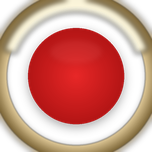
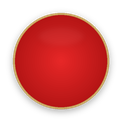
Mockup v10: ranking como texto, número dentro do círculo colorido
- Posição do ranking (1º, 2º...) deixa de ficar dentro de um círculo:
  agora é texto simples "1 -", "2 -"... à esquerda.
- O NÚMERO da roleta (não a posição) é que fica dentro de um círculo,
  na cor real daquele número (vermelho/preto/verde -- mesma lógica de
  cores já usada no histórico e no círculo central), com a contagem
  centralizada à direita como antes.
- Bolinhas do histórico: removida a borda dourada grossa (bisel), agora
  é só uma borda fina dourada logo após o limite da cor -- novo
  make_simple_chip() em build_ui_assets.py, reaproveitado também pro
  selo colorido do número em FRIO/QUENTE (mesmo asset, tamanhos
  diferentes).
- Confirmado: as três raias do histórico continuam com linhas
  totalmente independentes por coluna, sem nenhuma conexão central.

rank_ring_cold.png/rank_ring_hot.png removidos (não usados mais).

diff --git a/tools/build_ui_assets.py b/tools/build_ui_assets.py
@@ -280,6 +280,50 @@ def make_card_gradient_tile(width, height, top, bottom) -> Image.Image:
     return img
 
 
+def make_simple_chip(diameter, fill, gold, shadow_alpha=90) -> Image.Image:
+    """Bolinha simples: sombra sutil -> preenchimento com a cor real (mesmo sombreamento discreto
+    do círculo principal) -> UMA borda fina dourada logo depois do limite da cor (sem bisel
+    grosso, sem halo/glow, sem anel duplo) -- pedido explícito: "não precisam ter a borda dourada
+    grossa, apenas borda fina dourada logo após o limite da cor". Usada tanto pros chips do
+    histórico quanto pro selo colorido de cada número em FRIO/QUENTE (mesmo asset, tamanhos
+    diferentes)."""
+    pad = int(diameter * 0.14)
+    canvas = diameter + pad * 2
+    img = Image.new("RGBA", (canvas * SS, canvas * SS), (0, 0, 0, 0))
+    cx = cy = canvas * SS / 2
+    r = diameter * SS / 2
+
+    shadow = Image.new("RGBA", img.size, (0, 0, 0, 0))
+    ImageDraw.Draw(shadow).ellipse([cx - r, cy - r + SS * 2, cx + r, cy + r + SS * 2],
+                                    fill=(0, 0, 0, shadow_alpha))
+    shadow = shadow.filter(ImageFilter.GaussianBlur(radius=diameter * 0.035 * SS))
+    img.alpha_composite(shadow)
+
+    center_tone = _lerp(fill, (255, 255, 255), 0.06)
+    edge_tone = _lerp(fill, (0, 0, 0), 0.22)
+    fill_img = Image.new("RGBA", img.size, (0, 0, 0, 0))
+    fd = ImageDraw.Draw(fill_img)
+    steps = 22
+    for i in range(steps, 0, -1):
+        t = i / steps
+        rr = r * t
+        color = _lerp(edge_tone, center_tone, 1 - t)
+        fd.ellipse([cx - rr, cy - rr, cx + rr, cy + rr], fill=(*color, 255))
+    img.alpha_composite(fill_img)
+
+    ring_w = max(1, int(SS * 2.2))
+    ImageDraw.Draw(img).ellipse([cx - r, cy - r, cx + r, cy + r], outline=(*gold, 255), width=ring_w)
+
+    hl = Image.new("RGBA", img.size, (0, 0, 0, 0))
+    hl_w, hl_h = r * 1.0, r * 0.42
+    ImageDraw.Draw(hl).ellipse([cx - hl_w / 2, cy - r * 0.72, cx + hl_w / 2, cy - r * 0.72 + hl_h],
+                                fill=(255, 255, 255, 12))
+    hl = hl.filter(ImageFilter.GaussianBlur(radius=diameter * 0.03 * SS))
+    img.alpha_composite(hl)
+
+    return _down(img, (canvas, canvas))
+
+
 def make_background(width, height, base, center_tint) -> Image.Image:
     """Fundo com profundidade sutil: leve iluminação central + vignette discreto nos cantos.
     Pré-renderizado 1x -- em runtime custa um único `blit()` no lugar do `screen.fill()` flat que
@@ -355,9 +399,16 @@ def main() -> None:
     make_result_badge(380, fill=TRUE_BLACK, ring_tone=TRUE_BLACK, accent=GOLD, gold_halo=True, double_ring=True).save(OUT_DIR / "result_badge_black.png")
     make_result_badge(380, fill=GREEN, ring_tone=GREEN, accent=GOLD, gold_halo=True, double_ring=True).save(OUT_DIR / "result_badge_green.png")
 
-    make_result_badge(96, fill=RED, ring_tone=RED, accent=GOLD, gold_halo=True, shadow_alpha=90).save(OUT_DIR / "history_chip_red.png")
-    make_result_badge(96, fill=TRUE_BLACK, ring_tone=TRUE_BLACK, accent=GOLD, gold_halo=True, shadow_alpha=90).save(OUT_DIR / "history_chip_black.png")
-    make_result_badge(96, fill=GREEN, ring_tone=GREEN, accent=GOLD, gold_halo=True, shadow_alpha=90).save(OUT_DIR / "history_chip_green.png")
+    # Bolinhas simples (sem bisel grosso -- só uma borda fina dourada logo depois do limite da
+    # cor). Mesmo asset reaproveitado pros chips do histórico E pro selo colorido do número em
+    # cada linha de FRIO/QUENTE (mesmo estilo visual, tamanhos diferentes).
+    make_simple_chip(96, fill=RED, gold=GOLD).save(OUT_DIR / "history_chip_red.png")
+    make_simple_chip(96, fill=TRUE_BLACK, gold=GOLD).save(OUT_DIR / "history_chip_black.png")
+    make_simple_chip(96, fill=GREEN, gold=GOLD).save(OUT_DIR / "history_chip_green.png")
+
+    make_simple_chip(72, fill=RED, gold=GOLD).save(OUT_DIR / "number_chip_red.png")
+    make_simple_chip(72, fill=TRUE_BLACK, gold=GOLD).save(OUT_DIR / "number_chip_black.png")
+    make_simple_chip(72, fill=GREEN, gold=GOLD).save(OUT_DIR / "number_chip_green.png")
 
     make_accent_bar(420, 6, BLUE_DARK, BLUE_BRIGHT).save(OUT_DIR / "accent_cold.png")
     make_accent_bar(420, 6, RED_DARK, RED_BRIGHT).save(OUT_DIR / "accent_hot.png")
@@ -372,9 +423,6 @@ def main() -> None:
     make_accent_glow(1080, 3, GOLD).save(OUT_DIR / "accent_gold_glow.png")
 
     make_card_gradient_tile(8, 320, (16, 20, 26), (10, 13, 18)).save(OUT_DIR / "card_gradient.png")
-
-    make_rank_ring(38, BLUE).save(OUT_DIR / "rank_ring_cold.png")
-    make_rank_ring(38, RED).save(OUT_DIR / "rank_ring_hot.png")
 
     make_background(1080, 1920, base=(7, 10, 14), center_tint=(16, 20, 27)).save(OUT_DIR / "background.png")
     make_ambient_glow(420, BLUE_BRIGHT, alpha=40).save(OUT_DIR / "ambient_glow_blue.png")

diff --git a/tools/mockup_ui.py b/tools/mockup_ui.py
@@ -155,7 +155,7 @@ def draw_header(screen, theme: Theme, header_h: int) -> None:
 
 def draw_side_panel(screen, theme: Theme, panel_rect: pygame.Rect,
                      title, subtitle, accent_asset: str, glow_asset: str, icon_asset: str,
-                     entries, unit, rank_ring_asset: str, accent_color,
+                     entries, unit, accent_color,
                      show_logo: bool = False, logo_path: str | None = None) -> None:
     """FRIO/QUENTE: painel de ALTURA COMPLETA (`panel_rect` já vem com a altura combinada de
     último resultado + histórico) -- correção principal desta rodada. O ranking ocupa o topo; o
@@ -194,22 +194,28 @@ def draw_side_panel(screen, theme: Theme, panel_rect: pygame.Rect,
     y += theme.px(12)
 
     row_h = theme.px(118)
-    rank_font = theme.font(18, True)
-    num_font = theme.font(64, True)
+    rank_font = theme.font(24, True)
+    num_font = theme.font(30, True)
     count_font = theme.font(36, True)
     unit_font = theme.font(16, True)
-    rank_d = theme.px(42)
+    badge_d = theme.px(60)
     inset = theme.px(24)
+    number_chip_asset = {"black": "number_chip_black.png", "red": "number_chip_red.png", "green": "number_chip_green.png"}
 
     for i, (num, count) in enumerate(entries):
         row = pygame.Rect(panel_rect.left, y, panel_rect.width, row_h)
-        rank_cx = row.left + inset + rank_d // 2
-        ring_img = asset_scaled(rank_ring_asset, (rank_d, rank_d))
-        screen.blit(ring_img, (rank_cx - rank_d // 2, row.centery - rank_d // 2))
-        draw_text(screen, rank_font, f"{i + 1}º", (rank_cx, row.centery), accent_color, anchor="center")
 
-        draw_text(screen, num_font, str(num), (rank_cx + rank_d // 2 + theme.px(16), row.centery),
-                  OFF_WHITE, anchor="midleft")
+        # Posição do ranking (1, 2, 3...) fica como TEXTO simples à esquerda, separado por hífen
+        # -- não mais dentro de um círculo (pedido explícito: só o NÚMERO da roleta em si é que
+        # deve estar dentro de um círculo, na cor real daquele número).
+        rank_r = draw_text(screen, rank_font, f"{i + 1} -", (row.left + inset, row.centery),
+                            accent_color, anchor="midleft")
+
+        badge_cx = rank_r.right + theme.px(14) + badge_d // 2
+        badge = asset_scaled(number_chip_asset[color_of(num)], (badge_d, badge_d))
+        screen.blit(badge, (badge_cx - badge_d // 2, row.centery - badge_d // 2))
+        blit_outlined(screen, num_font, str(num), (badge_cx, row.centery), fill=OFF_WHITE,
+                      outline=(0, 0, 0), outline_px=0)
 
         val_x = row.right - inset
         count_r = draw_text(screen, count_font, str(count), (val_x, row.centery - theme.px(11)),
@@ -444,12 +450,12 @@ def build_mockup(logo_path: str | None = None) -> pygame.Surface:
 
     frio_entries = [(9, 41), (3, 38), (28, 36), (14, 33), (31, 30)]
     draw_side_panel(screen, theme, frio_panel, "FRIO", "GIROS SEM SAIR", "accent_cold.png",
-                     "ambient_glow_blue.png", "cold_icon.png", frio_entries, "GIROS", "rank_ring_cold.png",
+                     "ambient_glow_blue.png", "cold_icon.png", frio_entries, "GIROS",
                      CYAN, show_logo=False)
 
     quente_entries = [(7, 9), (23, 8), (0, 7), (16, 6), (34, 5)]
     draw_side_panel(screen, theme, quente_panel, "QUENTE", "OCORRÊNCIAS", "accent_hot.png",
-                     "ambient_glow_red.png", "hot_icon.png", quente_entries, "VEZES", "rank_ring_hot.png",
+                     "ambient_glow_red.png", "hot_icon.png", quente_entries, "VEZES",
                      RED, show_logo=True, logo_path=logo_path)
 
     center_content = pygame.Rect(center_col.left + theme.px(8), center_col.top,
